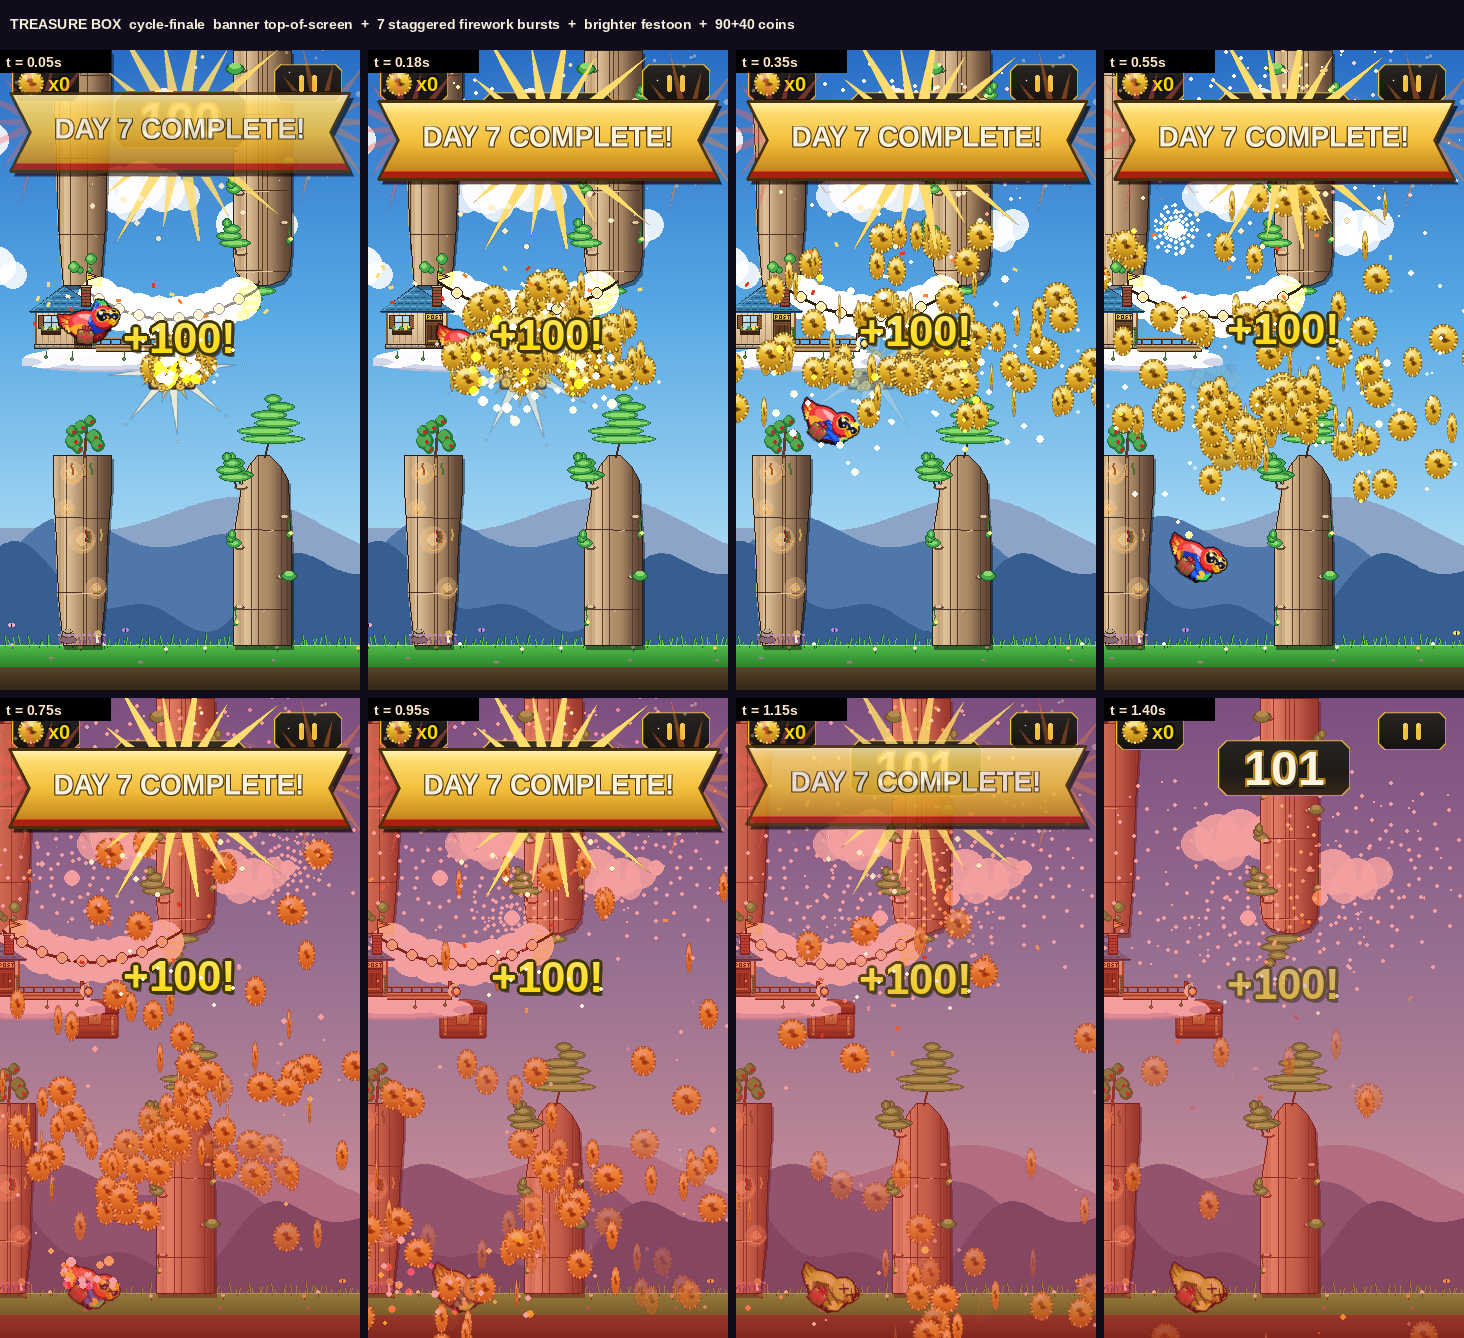
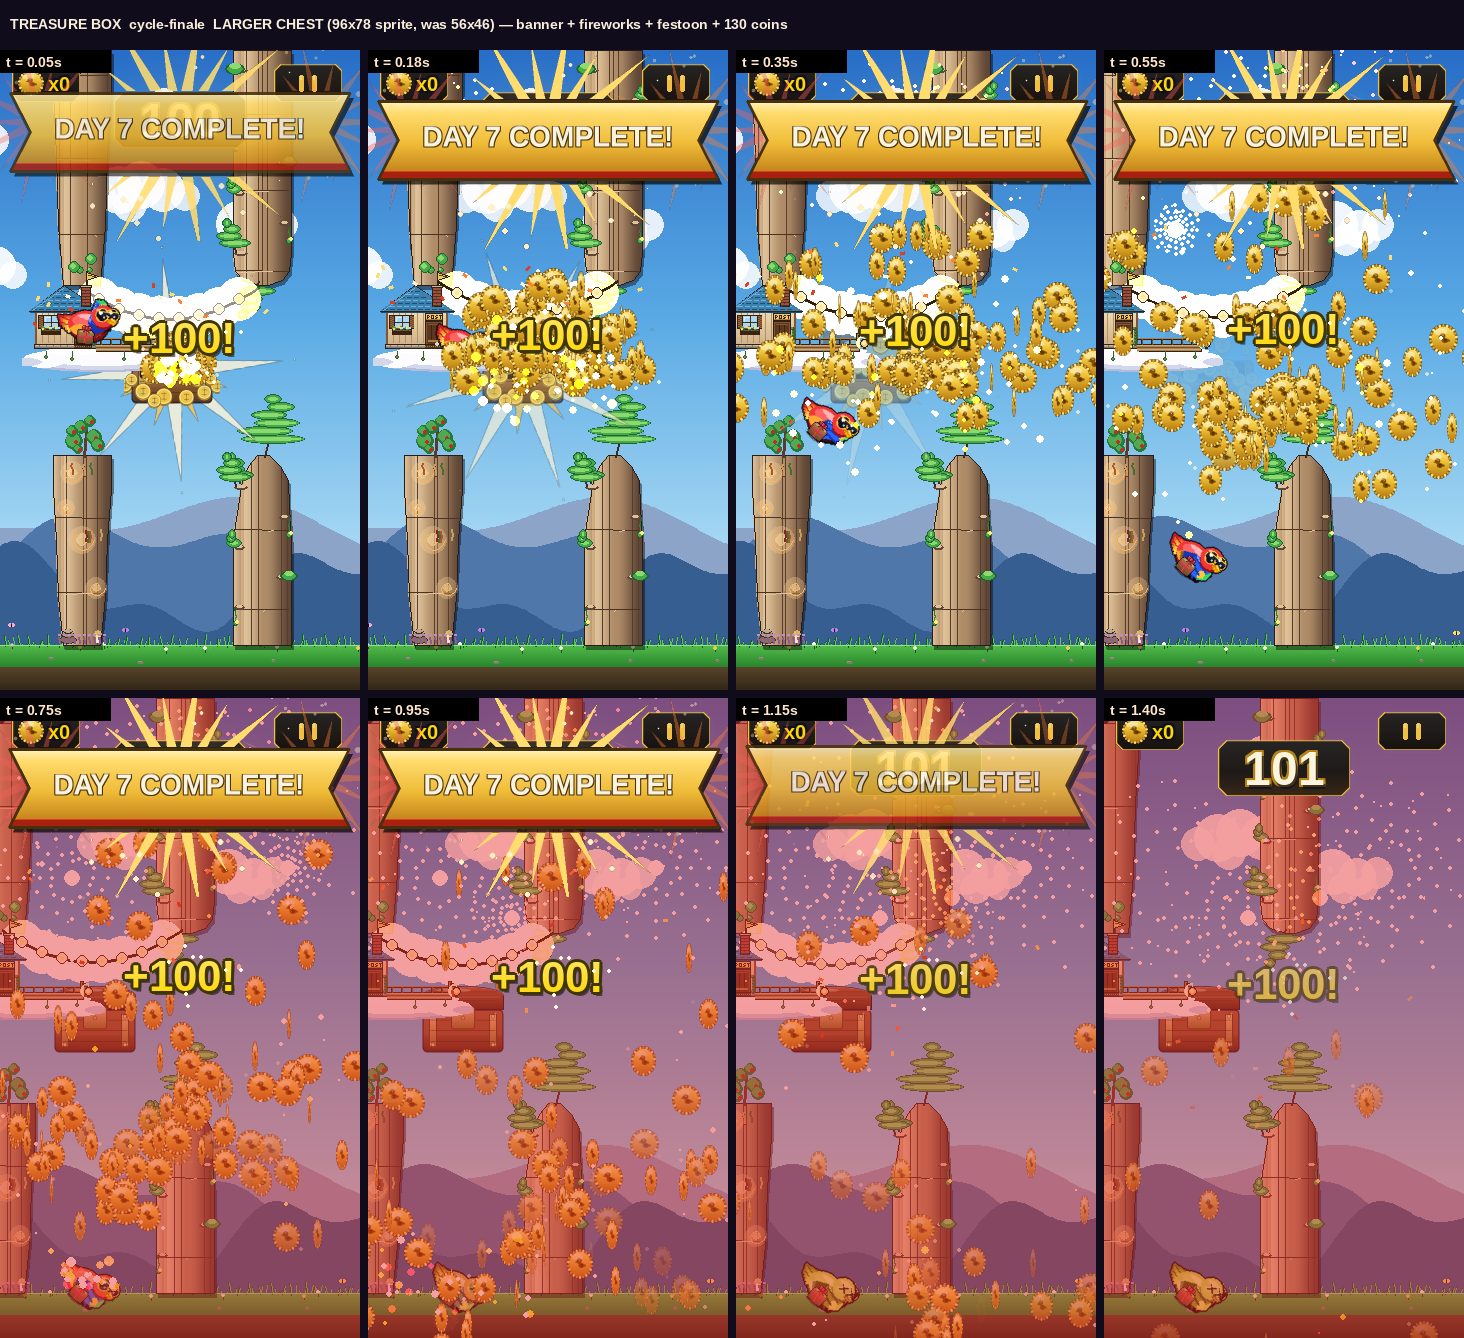
Treasure box: bump chest sprite footprint 56x46 -> 96x78 (1.71x)
User feedback after the cycle-finale celebration landed:

> "looks great! make the chest larger!!"

Per the design intent the chest is a once-per-biome-cycle hero reward,
not a regular power-up, so promote the sprite footprint accordingly.

PICKUP_W / PICKUP_H at the top of game/treasure_box.py drive every
chest rendering path:
- _new_big() supersamples at PICKUP_W * SS x PICKUP_H * SS.
- _smoothscale() down-samples back to the same footprint.
- _STARBURST_RADIUS = max(PICKUP_W, PICKUP_H) * 1.40 -> halo scales
  with the chest (134 px vs. the round-4 78 px), which is the right
  behaviour for a hero element.
- The 22 baked-coin pile uses body.height fractions internally so the
  whole pile scales proportionally — no per-coin retune.

draw_pickup_icon() and draw_open_sprite() both centre on (cx, cy);
the spawn position (gap-centre between rush pillars) is unchanged,
so the larger chest still sits centred in the flight gap.

Re-rendered docs/treasure_box/runtime_pickup_frames.png and
docs/treasure_box/reveal_animation.gif (1.5 s @ 30 fps, ~1.2 MB) so
the chest reads as the hero element it should be.

Pytest 10/10. No bundle-size or plausibility delta.

https://claude.ai/code/session_015eWdab4GNRiXFWxdLQ8CG2

diff --git a/game/treasure_box.py b/game/treasure_box.py
@@ -24,8 +24,8 @@ import pygame
 
 
 # ── Footprint + supersample ─────────────────────────────────────────────────
-PICKUP_W = 56
-PICKUP_H = 46
+PICKUP_W = 96
+PICKUP_H = 78
 SS = 7
 
 # ── Palette (verbatim copies of the design-tool constants) ──────────────────
